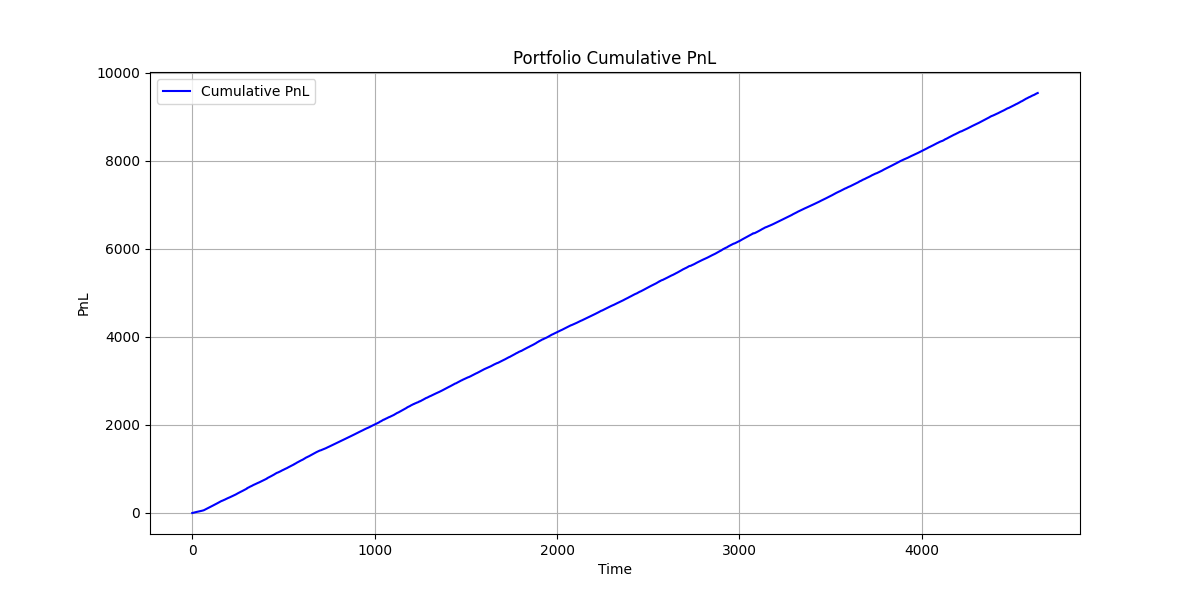
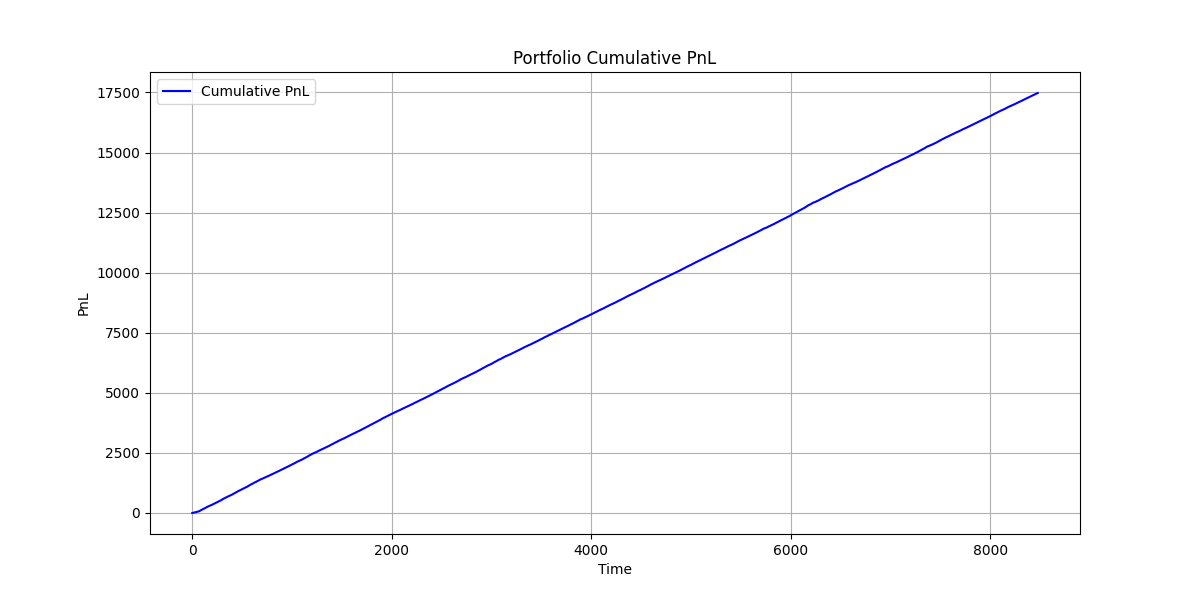
backup

diff --git a/Simple.py b/Simple.py
@@ -8,8 +8,8 @@ DATA_FOLDER = "./data_releases"
 TEAM_NAME = "limoji"
 PASSCODE = "014ls434>"
 SUBMISSION_FILE = "submissions.txt"
-LATEST_RELEASE = "4635"
-PASSWORD = "hpuTAsG3v5av6J0D"
+LATEST_RELEASE = "8475"
+PASSWORD = "IToOiV72S4vRSmcn"
 MAX_EXPOSURE = 0.1
 ALLOCATION_CONSTRAINT = 1.0
 
